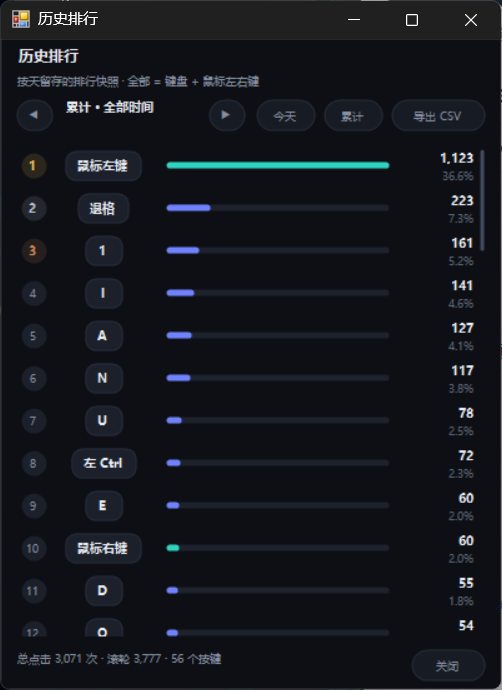
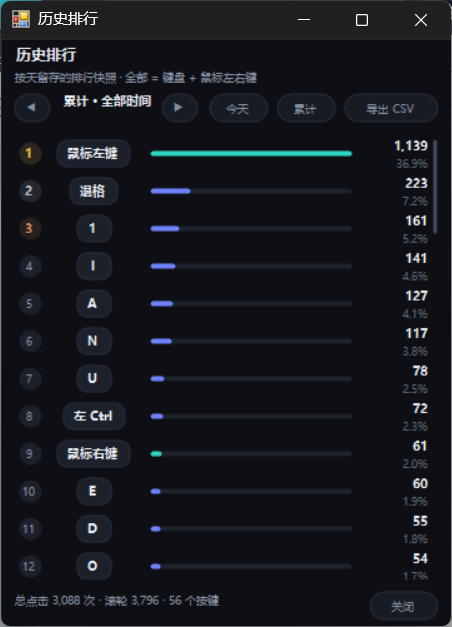
style: 进一步收紧界面，窗口 400x560 -> 360x500
- 列表行高 34->30、徽章 20->18、按键列 84->76、次数列 66->60、进度条 5->4

- 主窗口边距 12->10、卡片 50->48、工具条 y 103->94、底栏按钮 26->24

- 历史窗口 400x520 -> 360x470

- StatsCard 改为按字体实测高度排版，修掉收紧后卡片标题被裁切

diff --git a/src/HistoryForm.cs b/src/HistoryForm.cs
@@ -50,8 +50,8 @@ namespace KeyRank
             AutoScaleMode = AutoScaleMode.None;
             DoubleBuffered = true;
             StartPosition = FormStartPosition.CenterParent;
-            ClientSize = new Size(440, 560);
-            MinimumSize = new Size(380, 420);
+            ClientSize = new Size(360, 470);
+            MinimumSize = new Size(320, 380);
             KeyPreview = true;
 
             titleLabel = NewLabel("历史排行", Theme.H1Font, Theme.Text);
@@ -136,8 +136,8 @@ namespace KeyRank
             if (uiScale < 0.75f) uiScale = 0.75f;
             if (uiScale > 2.5f) uiScale = 2.5f;
 
-            ClientSize = new Size(S(440), S(560));
-            MinimumSize = new Size(S(380), S(420));
+            ClientSize = new Size(S(360), S(470));
+            MinimumSize = new Size(S(320), S(380));
 
             try
             {
@@ -168,12 +168,12 @@ namespace KeyRank
             int h = ClientSize.Height;
             if (w <= 0 || h <= 0) return;
 
-            int pad = S(14);
-            titleLabel.Bounds = new Rectangle(pad, S(8), Math.Max(S(120), w - pad * 2), S(24));
-            subtitleLabel.Bounds = new Rectangle(pad, S(32), Math.Max(S(120), w - pad * 2), S(16));
+            int pad = S(10);
+            titleLabel.Bounds = new Rectangle(pad, S(5), Math.Max(S(110), w - pad * 2), S(20));
+            subtitleLabel.Bounds = new Rectangle(pad, S(25), Math.Max(S(110), w - pad * 2), S(13));
 
-            int navY = S(56);
-            int navH = S(28);
+            int navY = S(43);
+            int navH = S(24);
 
             int exportW = S(76);
             int exportX = Math.Max(pad + S(150), w - pad - exportW);
@@ -192,12 +192,12 @@ namespace KeyRank
             totalButton.Bounds = new Rectangle(totalX, navY, totalW, navH);
             exportButton.Bounds = new Rectangle(exportX, navY, exportW, navH);
 
-            int listTop = S(94);
-            int listBottom = h - S(46);
+            int listTop = S(76);
+            int listBottom = h - S(38);
             list.Bounds = new Rectangle(pad, listTop, Math.Max(S(160), w - pad * 2), Math.Max(S(80), listBottom - listTop));
 
-            statusLabel.Bounds = new Rectangle(pad, h - S(34), Math.Max(S(100), w - pad * 2 - S(76)), S(24));
-            closeButton.Bounds = new Rectangle(w - pad - S(64), h - S(36), S(64), S(28));
+            statusLabel.Bounds = new Rectangle(pad, h - S(27), Math.Max(S(90), w - pad * 2 - S(66)), S(20));
+            closeButton.Bounds = new Rectangle(w - pad - S(56), h - S(29), S(56), S(24));
         }
 
         void LoadDays()

diff --git a/src/MainForm.cs b/src/MainForm.cs
@@ -216,8 +216,8 @@ namespace KeyRank
             if (uiScale < 0.75f) uiScale = 0.75f;
             if (uiScale > 2.5f) uiScale = 2.5f;
 
-            ClientSize = new Size(S(400), S(560));
-            MinimumSize = new Size(S(360), S(460));
+            ClientSize = new Size(S(360), S(500));
+            MinimumSize = new Size(S(320), S(420));
 
             Rectangle wa = Screen.FromHandle(Handle).WorkingArea;
             int maxHeight = wa.Height - S(16);
@@ -281,26 +281,26 @@ namespace KeyRank
             int h = ClientSize.Height;
             if (w <= 0 || h <= 0) return;
 
-            int pad = S(12);
+            int pad = S(10);
             lblTitle.Bounds = new Rectangle(pad, S(4), Math.Max(S(120), w - pad - S(100)), S(24));
             lblSubtitle.Bounds = new Rectangle(pad + S(2), S(29), Math.Max(S(120), w - pad * 2), S(14));
             pill.Bounds = new Rectangle(w - pad - S(76), S(7), S(76), S(20));
 
-            card.Bounds = new Rectangle(pad, S(47), Math.Max(S(200), w - pad * 2), S(50));
+            card.Bounds = new Rectangle(pad, S(43), Math.Max(S(200), w - pad * 2), S(48));
 
-            int segW = S(216);
+            int segW = S(196);
             int gap = S(6);
-            int searchW = Math.Max(S(110), w - pad * 2 - segW - gap);
-            seg.Bounds = new Rectangle(pad, S(103), segW, S(28));
-            search.Bounds = new Rectangle(w - pad - searchW, S(103), searchW, S(28));
+            int searchW = Math.Max(S(96), w - pad * 2 - segW - gap);
+            seg.Bounds = new Rectangle(pad, S(94), segW, S(26));
+            search.Bounds = new Rectangle(w - pad - searchW, S(94), searchW, S(26));
 
-            int footerY = h - S(34);
-            int listTop = S(139);
-            int listBottom = h - S(44);
+            int footerY = h - S(30);
+            int listTop = S(126);
+            int listBottom = h - S(40);
             list.Bounds = new Rectangle(pad, listTop, Math.Max(S(200), w - pad * 2), Math.Max(S(100), listBottom - listTop));
 
-            int btn = S(26);
-            int btnGap = S(4);
+            int btn = S(24);
+            int btnGap = S(3);
             int bx = w - pad - btn;
             btnSettings.Bounds = new Rectangle(bx, footerY, btn, btn);
             bx -= btn + btnGap;

diff --git a/src/Controls.cs b/src/Controls.cs
@@ -239,13 +239,15 @@ namespace KeyRank
                 Wheel.ToString("N0")
             };
 
+            int labelH = TextRenderer.MeasureText("今日", Theme.SmallFont).Height;
+            int valueH = TextRenderer.MeasureText("1,234", Theme.NumFont).Height;
+            int top = Math.Max(2, (Height - labelH - valueH) / 2);
+
             int colW = Width / 3;
             for (int i = 0; i < 3; i++)
             {
                 Rectangle cell = new Rectangle(i * colW, 0, colW, Height);
-                int labelH = (int)(Height * 0.2);
-                int valueH = (int)(Height * 0.44);
-                int labelY = (int)(Height * 0.18);
+                int labelY = top;
                 TextRenderer.DrawText(g, labels[i], Theme.SmallFont,
                     new Rectangle(cell.X, labelY, cell.Width, labelH), Theme.Muted,
                     TextFormatFlags.HorizontalCenter | TextFormatFlags.NoPrefix | TextFormatFlags.SingleLine);
